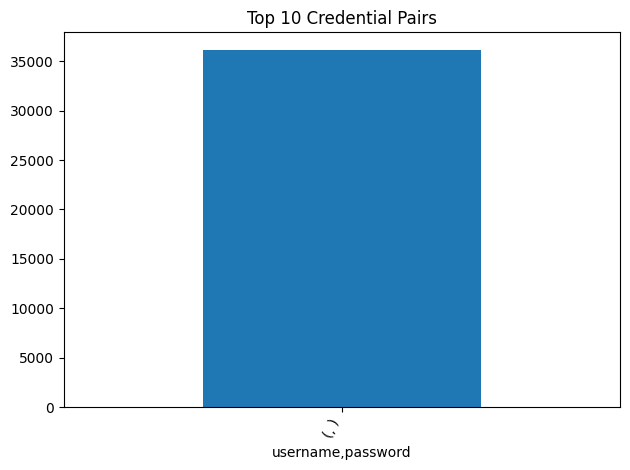
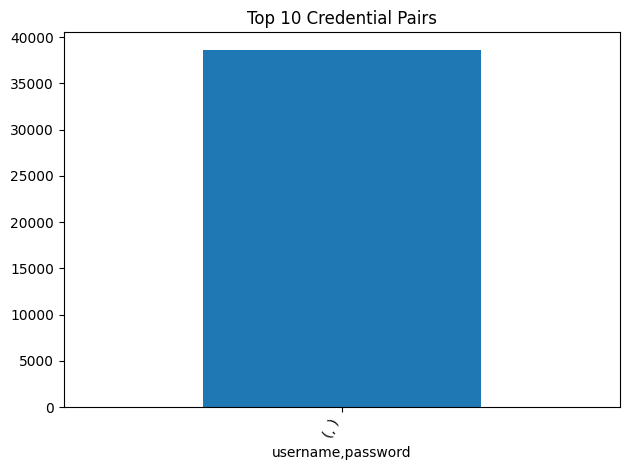
auto: 2025-06-02T16:29:58.613041

diff --git a/README.md b/README.md
@@ -2,8 +2,8 @@
 
 | Metric        | Value |
 |---------------|-------|
-| Total events  | 36,126 |
-| Distinct IPs  | 573 |
+| Total events  | 38,581 |
+| Distinct IPs  | 580 |
 
 ![Ports](ports_bar.png)
 
